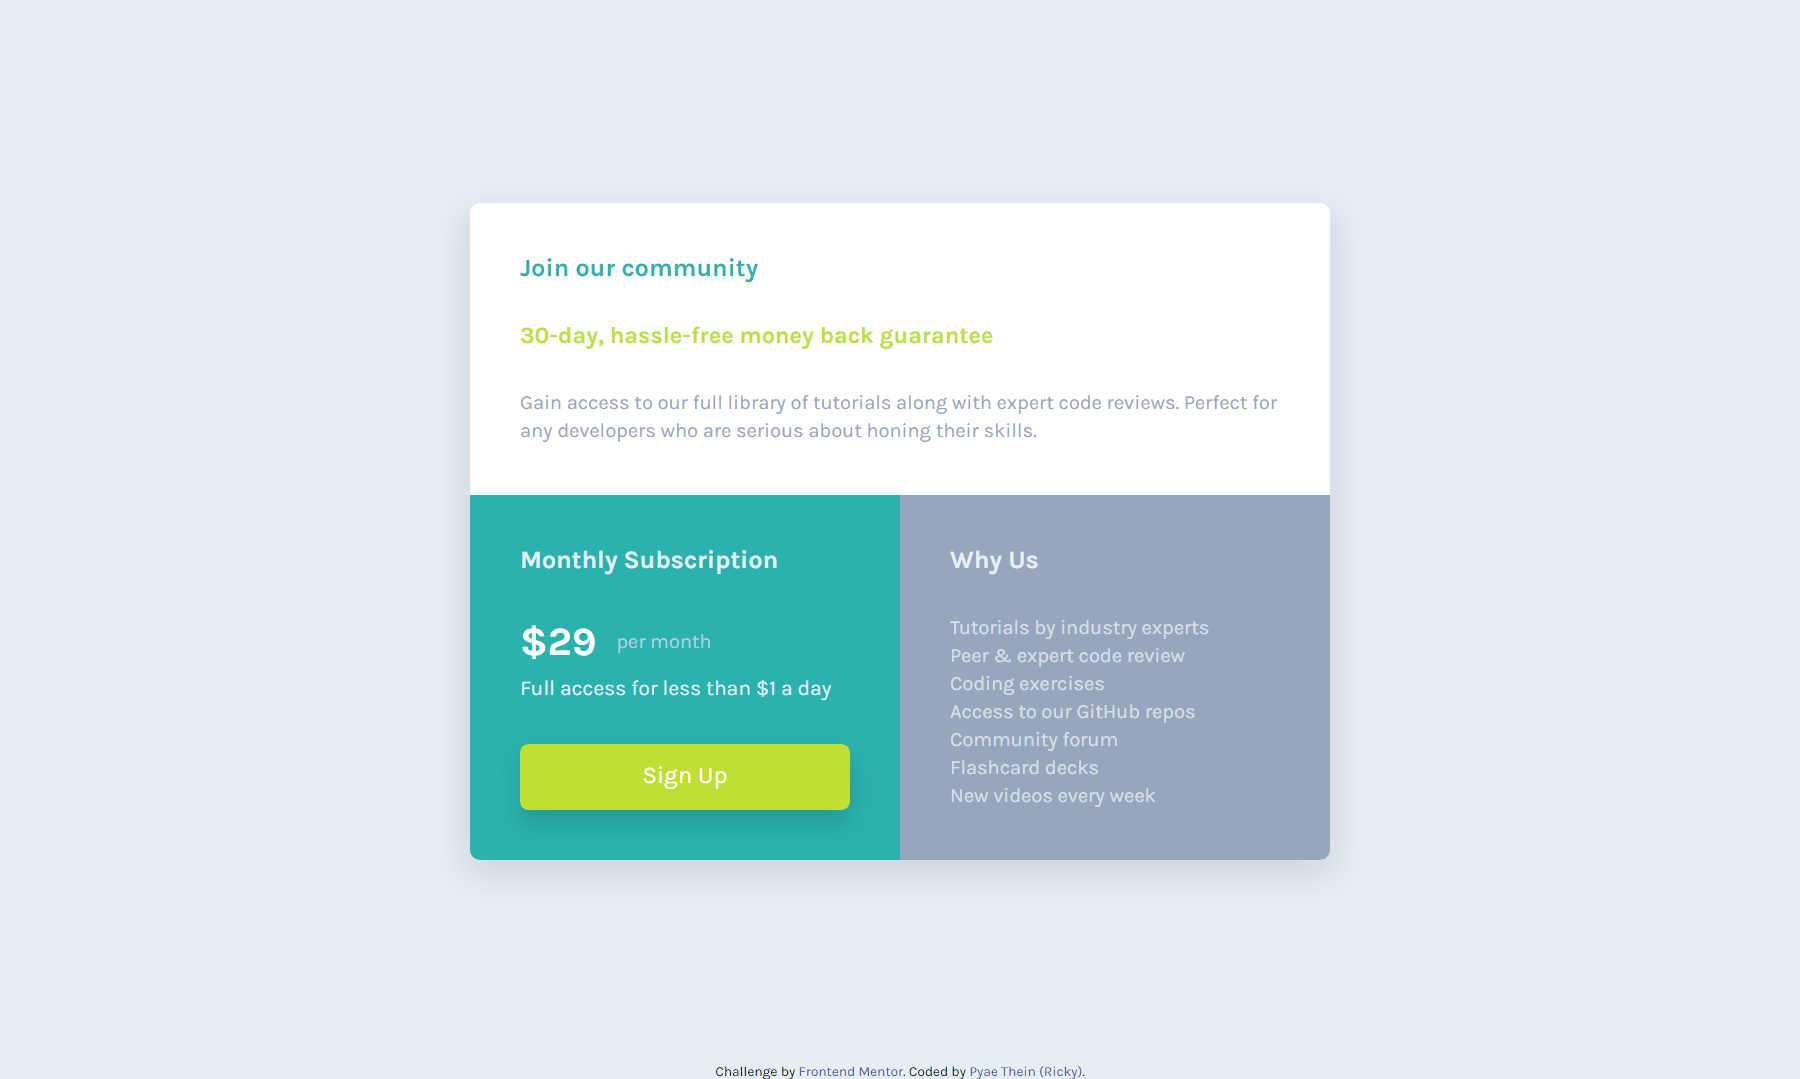
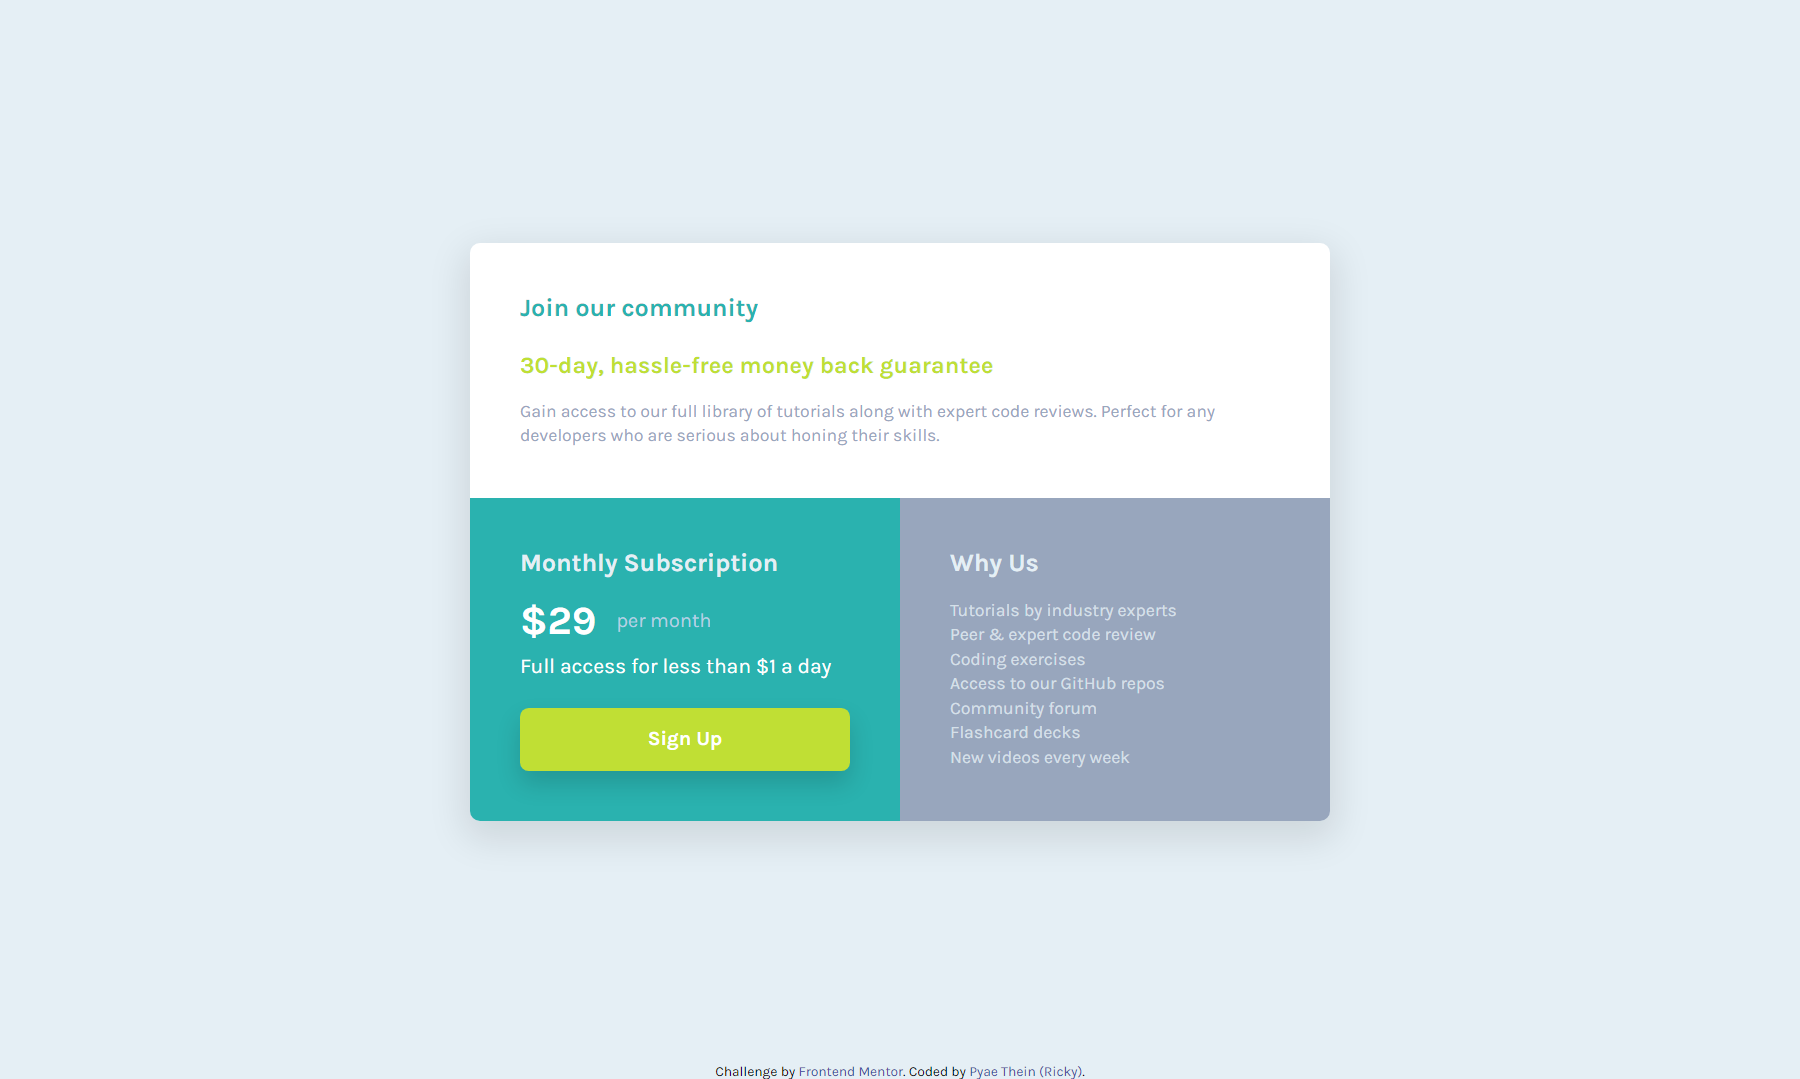
Add files via upload

Changed region(s): [[0.2489, 0.4893, 0.7467, 0.7952], [0.2489, 0.1835, 0.7467, 0.4282]]

diff --git a/scss/style.scss b/scss/style.scss
@@ -133,6 +133,9 @@ main{
         &__title{
             font-size: 1.25em;
         }
+        &:nth-child(1) .card-1__title{
+            margin-bottom: 0.5rem;
+        }
         &__desc{
             font-size: 0.875em;
         }

diff --git a/css/style.css b/css/style.css
@@ -170,6 +170,9 @@ main {
   .card__title {
     font-size: 1.25em;
   }
+  .card:nth-child(1) .card-1__title {
+    margin-bottom: 0.5rem;
+  }
   .card__desc {
     font-size: 0.875em;
   }
